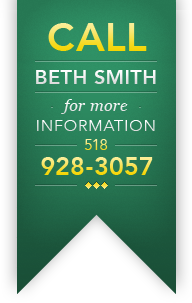
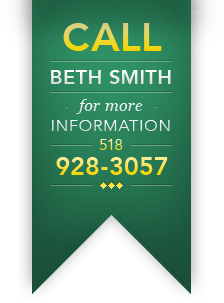
qc'ed dans landing page
Spacing is now pixel perfect, correct fonts need implementation.

diff --git a/malta-landing/style.css b/malta-landing/style.css
@@ -9,15 +9,24 @@ body {
 	padding: 0;
 	border: 0;
 	background-image: url('images/back-texture.png');
-	background-repeat: repeat-x;
 }
 
 .container {
 	width: 1000px;
-	height: 1770px;
+	height: 1576px;
 	margin: 0 auto 0 auto;
 	background-image: url('images/container-texture.png');
 	background-repeat: repeat-x;
+	-webkit-box-shadow: 0px 4px 50px rgba(0, 0, 0, 0.7);
+	-moz-box-shadow:    0px 4px 50px rgba(0, 0, 0, 0.7);
+	box-shadow:         0px 4px 50px rgba(0, 0, 0, 0.7);
+}
+
+.footer-container {
+	width: 1000px;
+	margin-left:auto;
+	margin-right: auto;
+
 }
 
 /*====================================
@@ -31,14 +40,14 @@ HEADER STYLES
 
 .home-link {
 	position: relative;
-    font-family: avenir;
-    font-size: 12px;
-    left: 32px;
-    text-decoration: none;
-    text-transform: uppercase;
-    top: -60px;
-    width: 60px;	
-    color: #309568;
+	font-family: avenir;
+	font-size: 12px;
+	left: 32px;
+	text-decoration: none;
+	text-transform: uppercase;
+	top: -60px;
+	width: 60px;	
+	color: #309568;
 }
 
 .logo {
@@ -48,10 +57,17 @@ HEADER STYLES
 }
 
 .header ul {
-	float: right;
-	width: 200px;
-	margin: 27px -41px 0 0;
+	position: relative;
+	float:right;
+	margin:0px;
+	margin-top:-88px;
+	padding:0px;
 	list-style-type: none;
+	margin-right:30px;
+}
+
+.header ul li {
+	float:left;
 }
 
 .header ul li a {
@@ -60,10 +76,11 @@ HEADER STYLES
 }
 
 .header-divider {
-	position: relative;
+	position: absolute;
 	display: block;
 	margin: 0 auto 0 auto;
-	top: -46px;
+	top: 63px;
+	margin-left:30px;
 }
 
 /*====================================
@@ -93,7 +110,7 @@ SLIDER STYLES
 
 .banner {
 	position: relative;
-	top: -554px;
+	top: -559px;
 	left: 290px;
 }
 
@@ -122,7 +139,7 @@ BODY STYLES
 
 .left-box h1 {
 	margin: 0;
-	font-family: arial;
+	font-family: avenir;
 	font-size: 22px;
 	color: #87772d;
 	font-weight: normal;
@@ -160,6 +177,8 @@ BODY STYLES
 	font-family: avenir;
 	text-transform: uppercase;
 	color: #309568;
+	margin-top:3px;
+	margin-bottom:2px;
 }
 
 .right-box h1 span {
@@ -196,6 +215,10 @@ BODY STYLES
 	width: 220px;
 	height: 245px;
 	
+}
+
+.house-types img:first-of-type {
+	height:177px;
 }
 
 .house-type-ribbon {
@@ -236,15 +259,18 @@ BODY STYLES
 }
 
 form [type=text] {
-	width: 165px;
+	width: 155px;
 	height: 20px;
 	margin: 10px 0 0 0;
+	padding:0px;
 	padding-left: 10px;
 	background-image: url('images/text-form.png');
 	background-repeat: no-repeat;
 	background-color: transparent;
 	border: none;
-	font-family: georgia;	
+	font-family: georgia;
+	font-size: 11px;
+	font-style: italic;
 	color: #808080;
 }
 
@@ -255,9 +281,10 @@ form [type=text] {
 
 textarea {
 	float: right;
-	width: 202px;
-	height: 50px;
+	width: 192px;
+	height: 47px;
 	margin: 10px 0 0 0;
+	padding:0px;
 	padding-left: 10px;
 	padding-top: 3px;
 	background-image: url('images/text-box.png');
@@ -266,6 +293,7 @@ textarea {
 	border: none;
 	font-family: georgia;
 	resize: none;
+	font-style: italic;
 	font-size: 11px;
 	color: #808080;
 }
@@ -304,7 +332,7 @@ FOOTER STYLES
 
 .footer-top-content {
 	width: 100%;
-	height: 70px;
+	height: 58px;
 }
 
 .footer-top-content ul {
@@ -328,7 +356,7 @@ FOOTER STYLES
 	margin: 20px 0 -20px 0;
 	font-family: avenir;
 	font-size: 10px;
-	color: fff;
+	color: #fff;
 }
 
 .footer-bottom-content p + p {
@@ -344,6 +372,10 @@ FOOTER STYLES
 .footer-bottom-content ul li {
 	float: left;
 	margin: 0 0 0 44px;
+}
+
+.footer-logo {
+	float:left;
 }
 
 

diff --git a/malta-landing/index.html b/malta-landing/index.html
@@ -81,6 +81,8 @@
 			<img class="tour-ribbon" src="images/tour-ribbon.png" alt="tour-ribbon" />
 		</div>
 		<!-- FOOTER SECTION -->
+	</div>
+	<div class="footer-container">
 		<div class="footer">
 			<img class="footer-ribbon" src="images/footer-ribbon.png" alt="footer-ribbon" />
 			<div class="footer-top-content">
